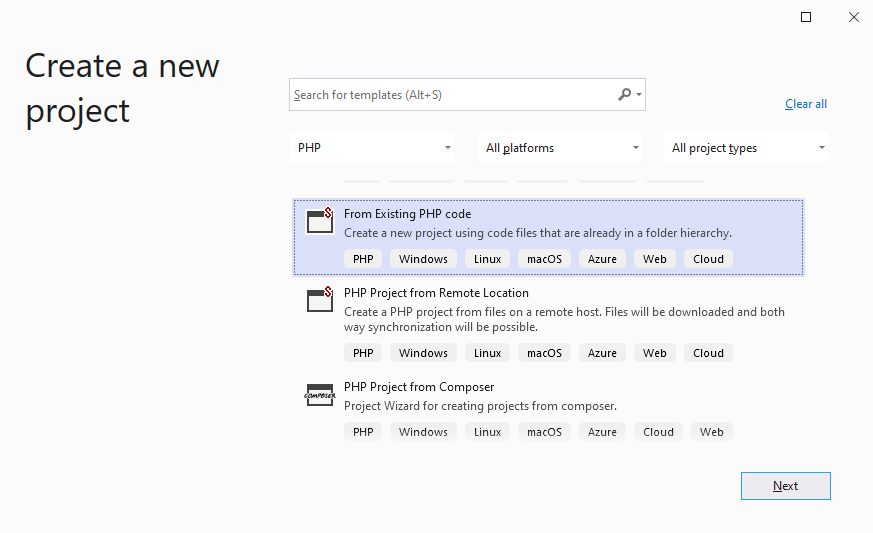
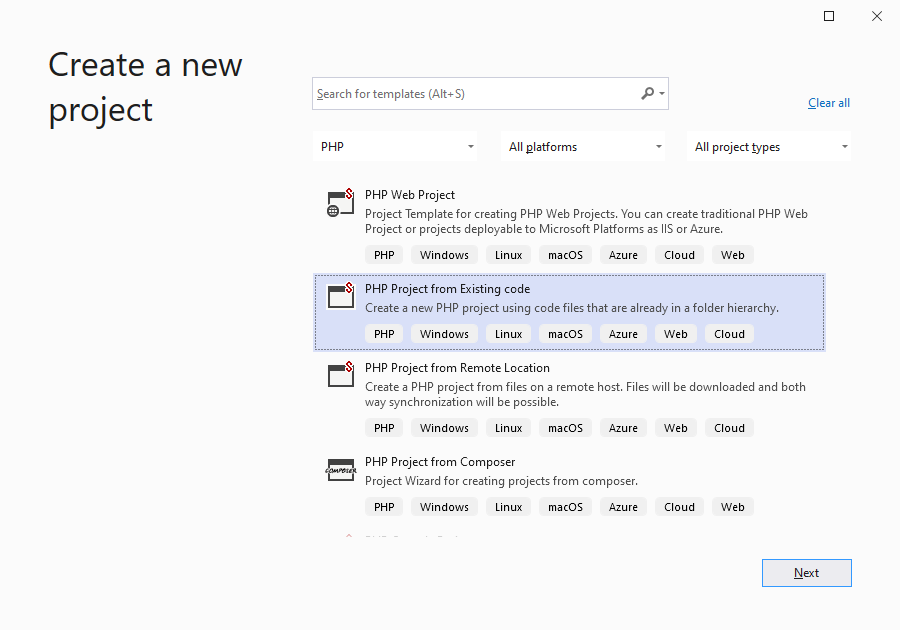
From existing code project template rename

diff --git a/docs/vs/Project/from-existing-code.md b/docs/vs/Project/from-existing-code.md
@@ -9,7 +9,7 @@ If there is already a folder with existing PHP code files, a new Visual Studio p
 
 ## Project From Existing Code "Project Template"
 
-In `File` / `New` / `Project`, choose the `From Existing PHP code` project template. The wizard will guide you through the process of creating the project in the specified location.
+In `File` / `New` / `Project`, choose the `PHP Project from Existing code` project template. The wizard will guide you through the process of creating the project in the specified location.
 
 ![Visual Studio New PHP Project From Existing Code](imgs/from-existing-code-template.png)
 
